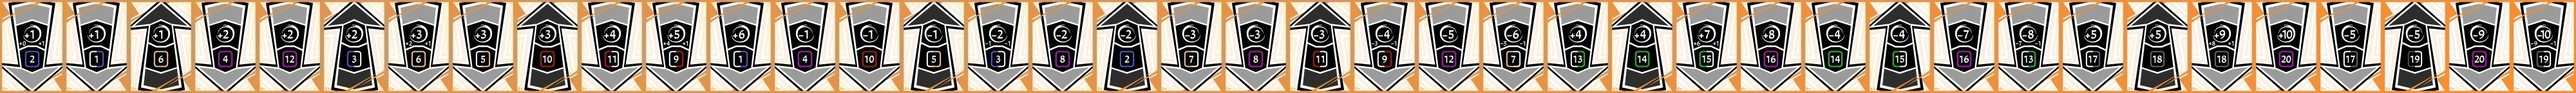
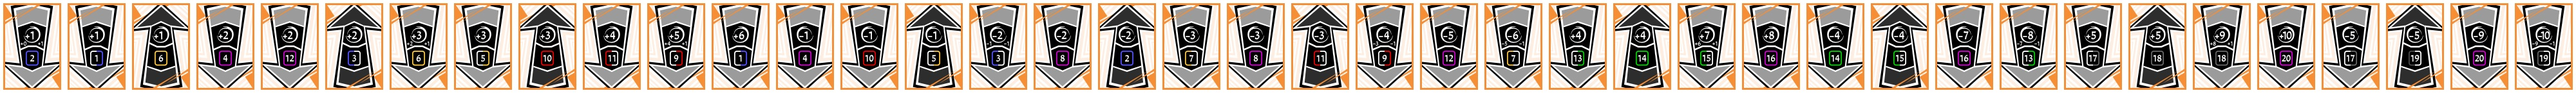
Fix error in spectator mode + sync images and CSS

diff --git a/ledernierpeuple.css b/ledernierpeuple.css
@@ -79,13 +79,17 @@
 	margin-right: 20px;
 }
 
+.spectatorMode #deck{
+	display:none;
+}
+
 .tile{
 	width: 74px; 
 	height: 100px;
 	background-image: url('img/tiles/all.jpg');
 	position: absolute;
 	background-repeat: no-repeat;
-	border : 1px solid #000000;
+	border-radius:5px;
 }
 
 .tile.possibleMove{
@@ -142,10 +146,12 @@
 
 .moveCard{
 	background-image: url('img/cards/all.jpg');
+	border-radius: 5px;
 }
 
 .powerCard{
 	background-image: url('img/powerCards/all.jpg');
+	border-radius: 5px;
 }
 
 .card.canChoose{
@@ -158,6 +164,7 @@
 	background-image: url('img/cards/all.jpg');
 	display:none;
 	position: absolute;
+	border-radius: 5px;
 }
 
 #chosenPowerCard{
@@ -166,6 +173,7 @@
 	background-image: url('img/powerCards/all.jpg');
 	position: absolute;
 	opacity: 0;
+	border-radius: 5px;
 }
 
 
@@ -173,5 +181,3 @@
 	color:red;
 	cursor:pointer;
 }
-
-

diff --git a/ledernierpeuple.game.php b/ledernierpeuple.game.php
@@ -147,7 +147,9 @@ class LeDernierPeuple extends Table
 			
 			//get the score of the current player
 			$sql = "SELECT player_score score FROM player where player_id=".$current_player_id;
-       		$result['players'][$current_player_id]["score"] = self::getUniqueValueFromDB( $sql );	
+        if(array_key_exists($current_player_id, $result['players'])){
+          $result['players'][$current_player_id]["score"] = self::getUniqueValueFromDB( $sql );	
+        }
 		}
         
         
@@ -164,6 +166,7 @@ class LeDernierPeuple extends Table
 		
 		//get the number of cards of each players
 		$allPlayerIds = array_keys($result['players']);
+    self::debug( "###Players IDs : ".implode(",",$allPlayerIds));
 		$sql = "select player_id, sum(nbCard) as nbCard from
 				(
 				select player_id, (select count(*) from powerCard where location=player_id) as nbCard from player
